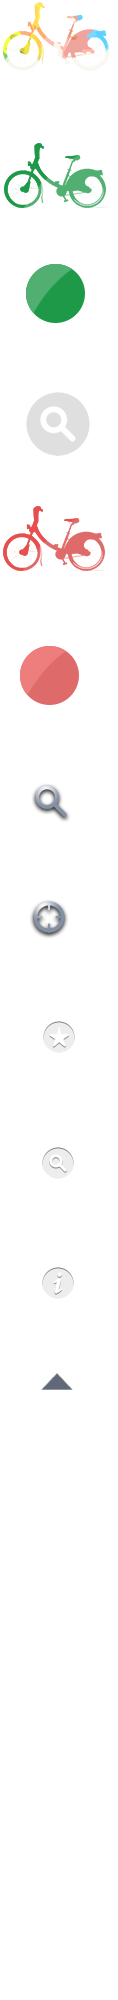
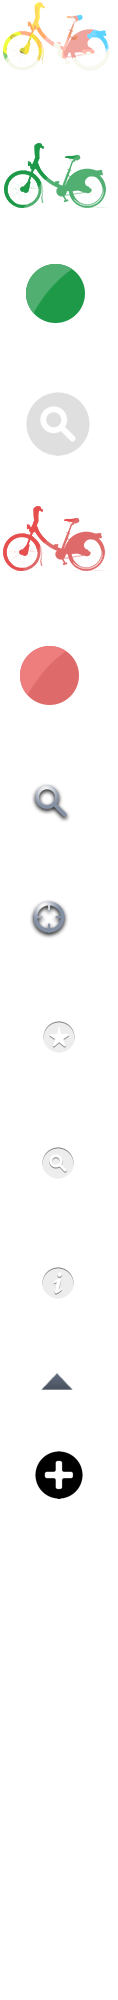
Addition of station in the favs list works now.
- back face option in the css - new ui_element

Changed region(s): [[0.3051, 0.713, 0.7119, 0.775]]

diff --git a/dev/js/freelib.js b/dev/js/freelib.js
@@ -29,6 +29,7 @@ var freelib = (function() {
 		// We check if the database already exists
 		initDb();
 		checkMapUpdate();
+		updateFavorites();
 	}
  	
 	// Database initialisation
@@ -38,7 +39,7 @@ var freelib = (function() {
                 db = openDatabase("Freelib", "1.0", "Votre velib dans la poche", 512000);
                 if (db) {
 					db.transaction(function(tx) {
-						tx.executeSql("CREATE TABLE IF NOT EXISTS prefs (id REAL UNIQUE, favoris TEXT, lastVisit DATE)", [], function() {});
+						tx.executeSql("CREATE TABLE IF NOT EXISTS prefs (id REAL UNIQUE, favoris LONGTEXT, lastVisit DATE)", [], function() {});
 					});
 					db.transaction(function(tx) {
                         tx.executeSql("CREATE TABLE IF NOT EXISTS map (id REAL UNIQUE, address TEXT, bonus INT, fullAddress TEXT, lat FLOAT, lng FLOAT, name TEXT, number INT, open INT)", [],
@@ -128,6 +129,7 @@ var freelib = (function() {
 					var year = currentTime.getFullYear();
 					
 					lastTime = results.rows.item(0)['lastVisit'];
+					//lastTime = '08/01/2011';
 					
 					var thisTime = month + '/' + day + '/' + year;
 					
@@ -304,7 +306,7 @@ var freelib = (function() {
 								stations.sort();
 								// Adding the elements in the list
 								$.each(stations, function() {
-									$("#search-wrapper #scroller").append($('<li id="' + this[1]['number'] + '"><div class="location"><div class="adresse"><span id="velib_id">à ' + Math.round(this[0]*1000) + 'm</span>' + this[1]['fullAddress'] + '</div></div><div class="velib_status"><div class="velib_num"><div class="sign"></div><div class="flip"><div class="num1">?</div></div></div><div class="parks_num"><div class="sign">P</div><div class="flip"><div class="num2">?</div></div></div></div><div class="clr"></div></li>'));
+									$("#search-wrapper #scroller").append($('<li class="' + this[1]['number'] + '"><div class="location"><div class="adresse"><span id="velib_id">à ' + Math.round(this[0]*1000) + 'm</span>' + this[1]['fullAddress'] + '</div></div><div class="velib_status"><div class="velib_num"><div class="sign"></div><div class="flip"><div class="num1">?</div></div></div><div class="parks_num"><div class="sign">P</div><div class="flip"><div class="num2">?</div></div></div></div><div class="clr"></div><div class="add" onclick="freelib.addStation(' + this[1]['number'] + ');"></div></li>'));
 								});
 								
 								// Refreh the scroller with the new elements
@@ -340,52 +342,149 @@ var freelib = (function() {
 	 			function(data) {
 					var available = data.query.results.station.available;
 					var free = data.query.results.station.free;
-					$('#' + station['number'] + ' .num1').text(available);
-					$('#' + station['number'] + ' .num2').text(free);
+					$('.' + station['number'] + ' .num1').text(available);
+					$('.' + station['number'] + ' .num2').text(free);
 				})
 	 			.error(function(){
 	 				console.log('Error while get the station status.');
 	 			});
 		});
 	}
-	
+	// TODO : see animation with css instead.
 	function showView (view) {
 		if (view == 'favs') {
-			// Stopping the position watcher
-			if (navigator.geolocation) {
-				navigator.geolocation.clearWatch(geoWatch);
-			}
-			else{
-				console.log('Browser not supported.');
-			}
-			
-			$("#fav-wrapper").css({'z-index': '2'});
-			$("#search_box_bg").css({'z-index': '1', 'display': 'none'});			
-			$("#middle").css({'top': '51px'});
-			$("#cursor").animate(
-				{'margin-left': '5px'}, 
-				{duration: 200, specialEasing: { width: 'linear', height: 'easeInOut'}});
-				
+			showFavs();
 		};
 		if (view == 'search') {
-			// For more accurate positionning 
-			geoWatcher();
-			
-			
-			$("#search-wrapper").css({'z-index': '2'});
-			$("#search_box_bg").css({'z-index': '3', 'display': 'block'});
-			$("#middle").css({'top': -($(window).height()-204) + 'px'});
-			$("#cursor").animate(
-				{'margin-left': '85px'}, 
-				{duration: 200, specialEasing: { width: 'linear', height: 'easeInOut'}});
+			showSearch();
 		}
 		if (view == 'info') {
-			$("#info-wrapper").css({'z-index': '2'});
-			$("#middle").css({'top': -($(window).height()-152)*2 + 'px'});
-			$("#cursor").animate(
-				{'margin-left': '165px'}, 
-				{duration: 200, specialEasing: { width: 'linear', height: 'easeInOut'}});
+			showInfo();
 		};
+	}
+	
+	function showFavs() {
+		// Stopping the position watcher
+		if (navigator.geolocation) {
+			navigator.geolocation.clearWatch(geoWatch);
+		}
+		else{
+			console.log('Browser not supported.');
+		}
+		
+		$("#fav-wrapper").css({'z-index': '2'});
+		$("#search_box_bg").css({'z-index': '1', 'display': 'none'});			
+		$("#middle").css({'top': '51px'});
+		$("#cursor").animate(
+			{'margin-left': '5px'}, 
+			{duration: 200, specialEasing: { width: 'linear', height: 'easeInOut'}});
+		
+	}
+	
+	function showSearch() {
+		// For more accurate positionning 
+		geoWatcher();
+		
+		
+		$("#search-wrapper").css({'z-index': '2'});
+		$("#search_box_bg").css({'z-index': '3', 'display': 'block'});
+		$("#middle").css({'top': -($(window).height()-204) + 'px'});
+		$("#cursor").animate(
+			{'margin-left': '85px'}, 
+			{duration: 200, specialEasing: { width: 'linear', height: 'easeInOut'}});
+	}
+	
+	function showInfo() {
+		// Stopping the position watcher
+		if (navigator.geolocation) {
+			navigator.geolocation.clearWatch(geoWatch);
+		}
+		else{
+			console.log('Browser not supported.');
+		}
+		
+		$("#info-wrapper").css({'z-index': '2'});
+		$("#middle").css({'top': -($(window).height()-152)*2 + 'px'});
+		$("#cursor").animate(
+			{'margin-left': '165px'}, 
+			{duration: 200, specialEasing: { width: 'linear', height: 'easeInOut'}});
+	}
+	
+	function addStation (stationNum) {
+		var ajouter=confirm('Ajouter la station ' + stationNum + ' à vos favoris?');
+		if (ajouter==true) {
+			addStationInDb(stationNum);
+		}
+	}
+	
+	function addStationInDb (stationNum) {
+		var favoris;
+		db = openDatabase("Freelib", "1.0", "Votre velib dans la poche", 512000);
+        db.transaction(function(tx) {
+			tx.executeSql('SELECT * FROM prefs', [], function(tx, results) {
+				if(results.rows && results.rows.length) {
+					if (results.rows.item(0)['favoris'].search(stationNum) == -1) {
+						favoris = (results.rows.item(0)['favoris'] == '' ? stationNum.toString() : results.rows.item(0)['favoris'] + ',' + stationNum);
+						//parseStation(favoris);
+						db.transaction(function(tx) {
+							tx.executeSql('UPDATE prefs SET favoris=? WHERE id=1', [favoris], function(){
+								updateFavorites();
+								showFavs();
+							});
+						});
+					}
+					else {
+						alert('Cette station est déjà dans les favoris');
+					}
+				}
+			});
+		});
+	}
+	
+	function parseStation (stations) {
+		console.log(stations.split(','));
+	}
+	
+	function updateFavorites () {
+		$("#fav-wrapper #scroller").html('');
+		db = openDatabase("Freelib", "1.0", "Votre velib dans la poche", 512000);
+        db.transaction(function(tx) {
+			tx.executeSql('SELECT * FROM prefs', [], function(tx, results) {
+				if(results.rows && results.rows.length) {
+					$.each(results.rows.item(0)['favoris'].split(','), function() {
+						var stationItem = this
+						db = openDatabase("Freelib", "1.0", "Votre velib dans la poche", 512000);
+			            db.transaction(function(tx) {
+							// Selecting all the row of the map table
+			                tx.executeSql('SELECT * FROM map WHERE number=?', [stationItem], function(tx, results) {
+									if(results.rows && results.rows.length) {
+										// We fill the list
+										$("#fav-wrapper #scroller").append($('<li class="' + results.rows.item(0)['number'] + '"><div class="location"><div class="adresse"><span id="velib_id">' + results.rows.item(0)['number'] + '</span>' + results.rows.item(0)['fullAddress'] + '</div></div><div class="velib_status"><div class="velib_num"><div class="sign"></div><div class="flip"><div class="num1">?</div></div></div><div class="parks_num"><div class="sign">P</div><div class="flip"><div class="num2">?</div></div></div></div><div class="clr"></div></li>'));
+										
+										// Refreh the scroller with the new elements
+										setTimeout(function () {
+											favScroll.refresh();
+										}, 200);					
+										
+										// Asynchronous update of the stations status
+										var stationToUpdate = new Array();
+										stationToUpdate.push([0,results.rows.item(0)])
+										getStationsStatus(stationToUpdate);															
+									}									
+									else {
+										$("#content").text('Aucune station favorite');
+										$("#content").show();
+									}
+							});
+						});
+					});
+				}
+				else {
+					$("#content").text('Aucune station favorite');
+					$("#content").show();
+				}
+			});
+		});
 	}
 	
     return {
@@ -395,6 +494,7 @@ var freelib = (function() {
         searchStation: searchStation,
 		geolocate: geolocate,
 		getStationsStatus: getStationsStatus,
-		showView: showView
+		showView: showView,
+		addStation: addStation
     };
 })();

diff --git a/dev/css/i.css b/dev/css/i.css
@@ -21,6 +21,10 @@ body {
 	clear: left;
 }
 
+* {
+	-webkit-backface-visibility: hidden;
+}
+
 /*
 	Common : Header
 */
@@ -419,9 +423,20 @@ body {
 	position: absolute;
 }
 
+#scroller .add {
+	position: absolute;
+	height: 40px;
+	width: 40px;
+	background-image: url(../assets/ui_elements.png);
+	background-position: -9px -715px;
+	display: block;
+	right: 11px;
+	top: 37px;
+}
+
 /* Content when empty */
 
-/*#content {
+#content {
 	width: 100%;
 	height : 100%;
 	display: -webkit-box;
@@ -432,8 +447,9 @@ body {
 	font-size: 42px;
 	color: rgba(255,255,255,0.19);
 	text-shadow: 0px -1px 0px #010101;
+	display: none;
 }
-*/
+
 /* Search box */
 
 #search_box_bg {
@@ -517,6 +533,7 @@ ul#search_results li {
 	#footer	#favs,
 	#footer	#search,
 	#footer	#info,
+	#scroller .add,
 	#scroller .velib_status .velib_num .sign,
 	#scroller .velib_status .parks_num .sign {
 		background-image: url(../assets/ui_elements@x2.png);

diff --git a/dev/index.html b/dev/index.html
@@ -64,6 +64,7 @@ freelib.init();
 	</div>
 </div>
 <div id="middle">
+	<!-- <div id="content"></div> -->
 	<div id="fav-wrapper">
 		<ul id="scroller">
 		</ul>
